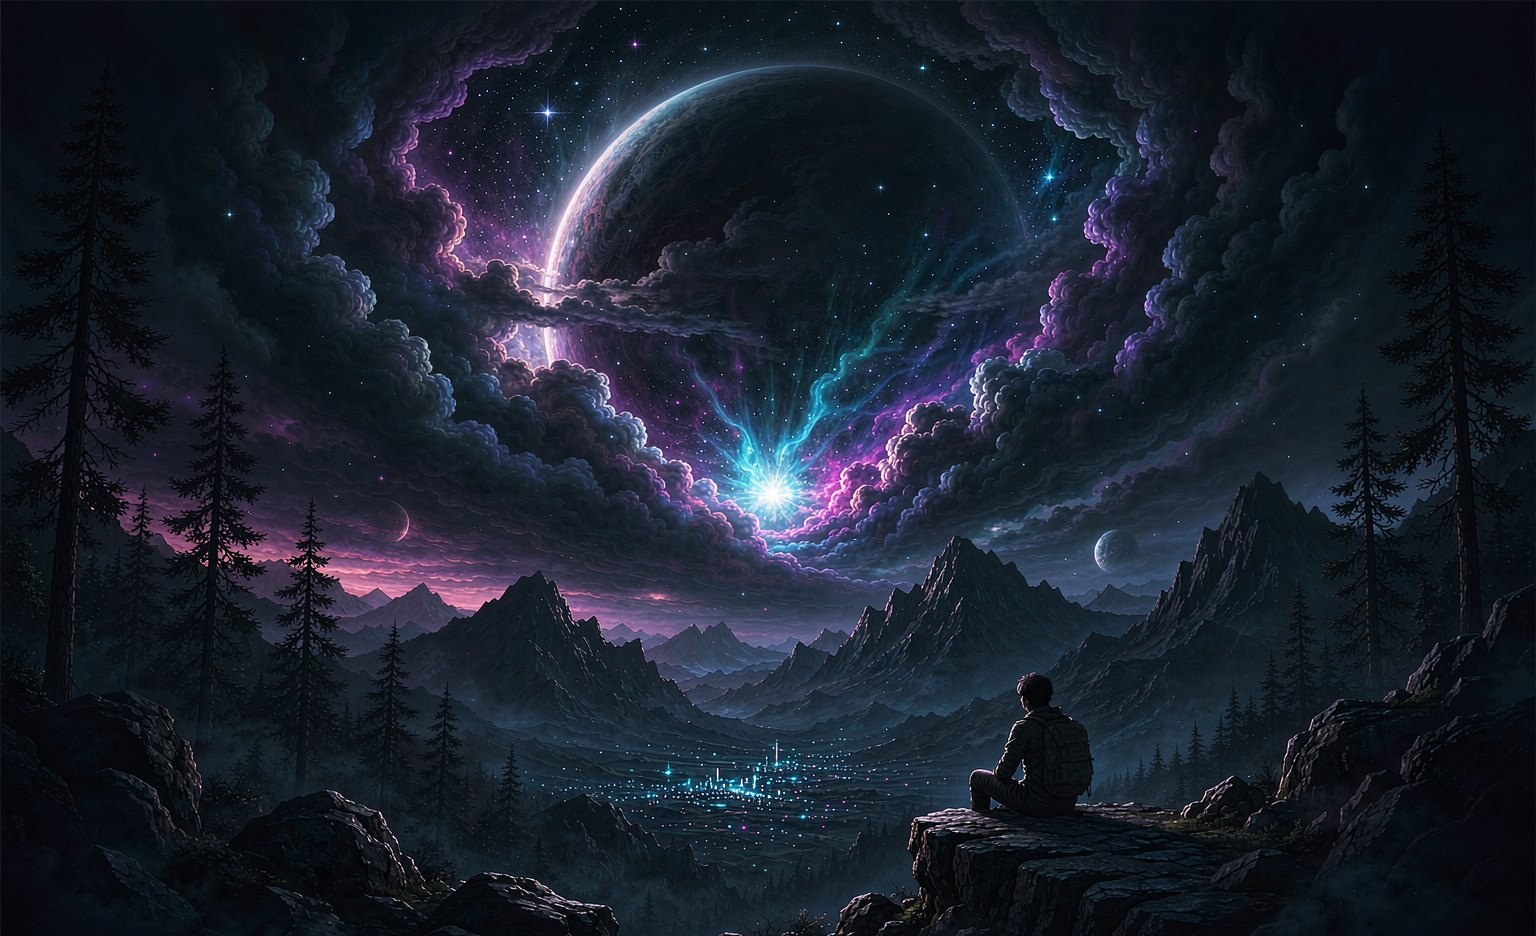
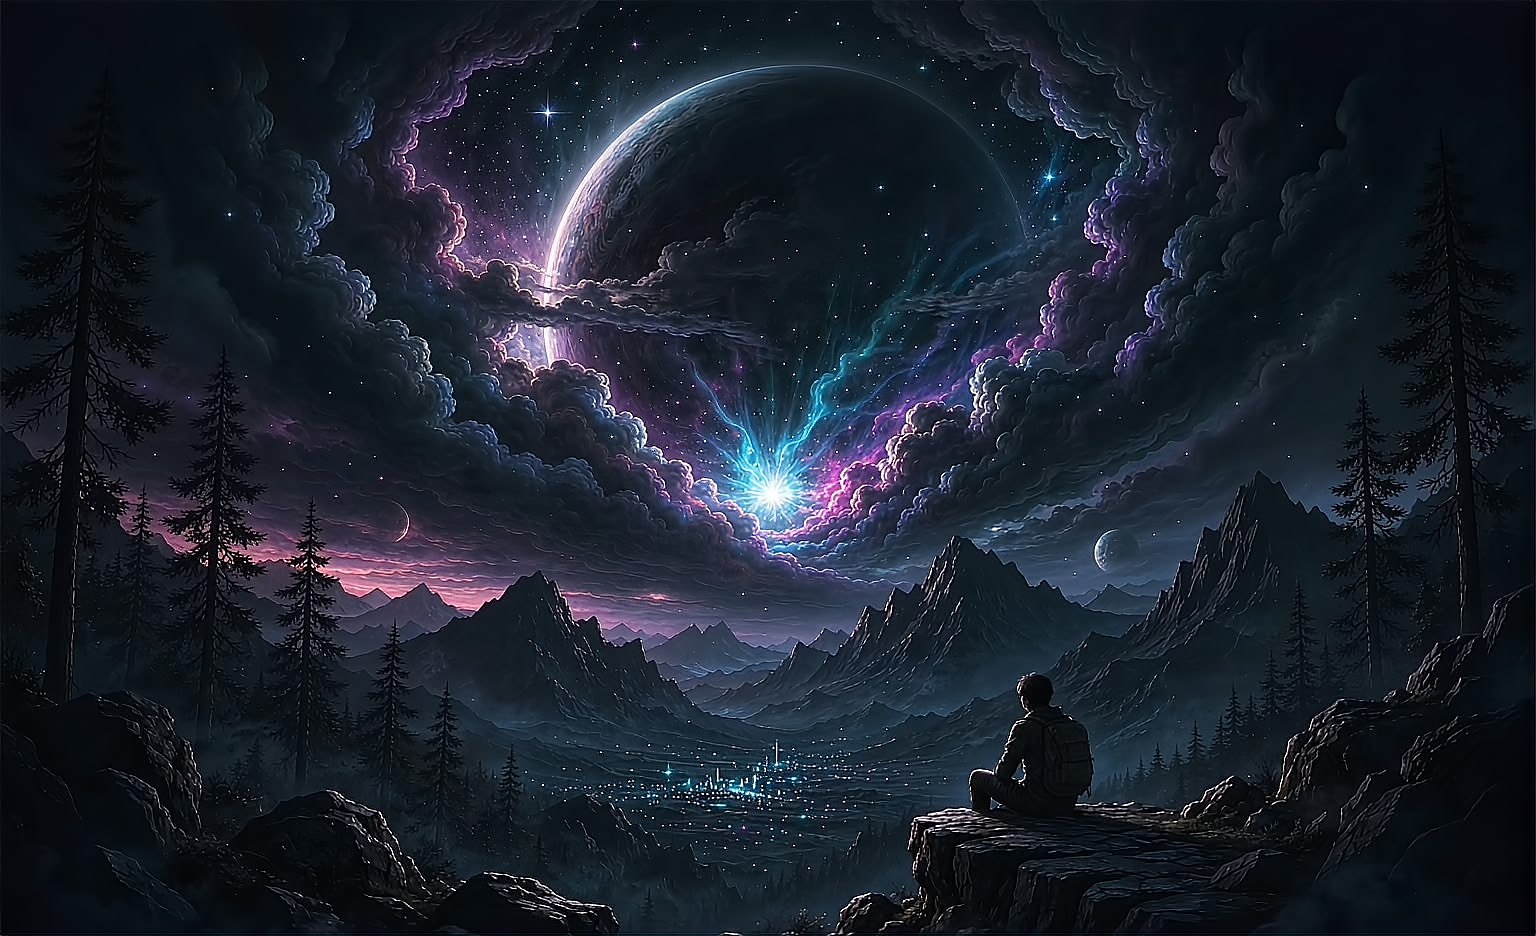
feat: Hero 背景超高清化
- 用图像增强模型重绘细节（星云层次/山脊/崖上人影更锐利）
- 输出 1x(1536w, 248KB) + 2x(3072w, 599KB) 双档，CSS image-set 按屏幕密度自动加载
- 取景位置微调至 62%

diff --git a/static/css/style.css b/static/css/style.css
@@ -174,7 +174,14 @@ img { max-width: 100%; }
 }
 .hero-bg {
   position: absolute; inset: 0;
-  background: url('/img/hero/hero-bg.jpg') center 58% / cover no-repeat;
+  background-image: url('/img/hero/hero-bg.jpg');
+  background-image: image-set(
+    url('/img/hero/hero-bg.jpg') 1x,
+    url('/img/hero/hero-bg@2x.jpg') 2x
+  );
+  background-position: center 62%;
+  background-size: cover;
+  background-repeat: no-repeat;
   transform: scale(1.03);
 }
 .hero-veil {
